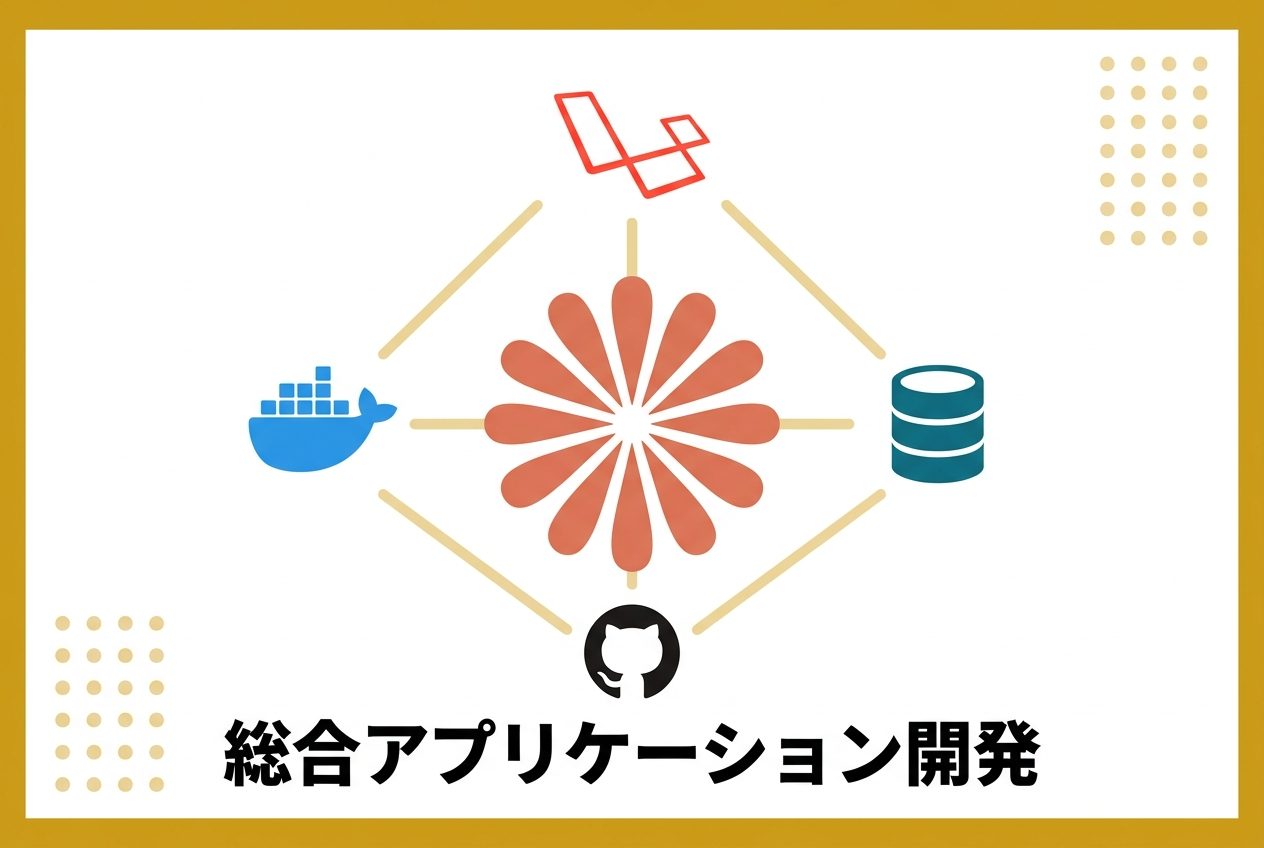
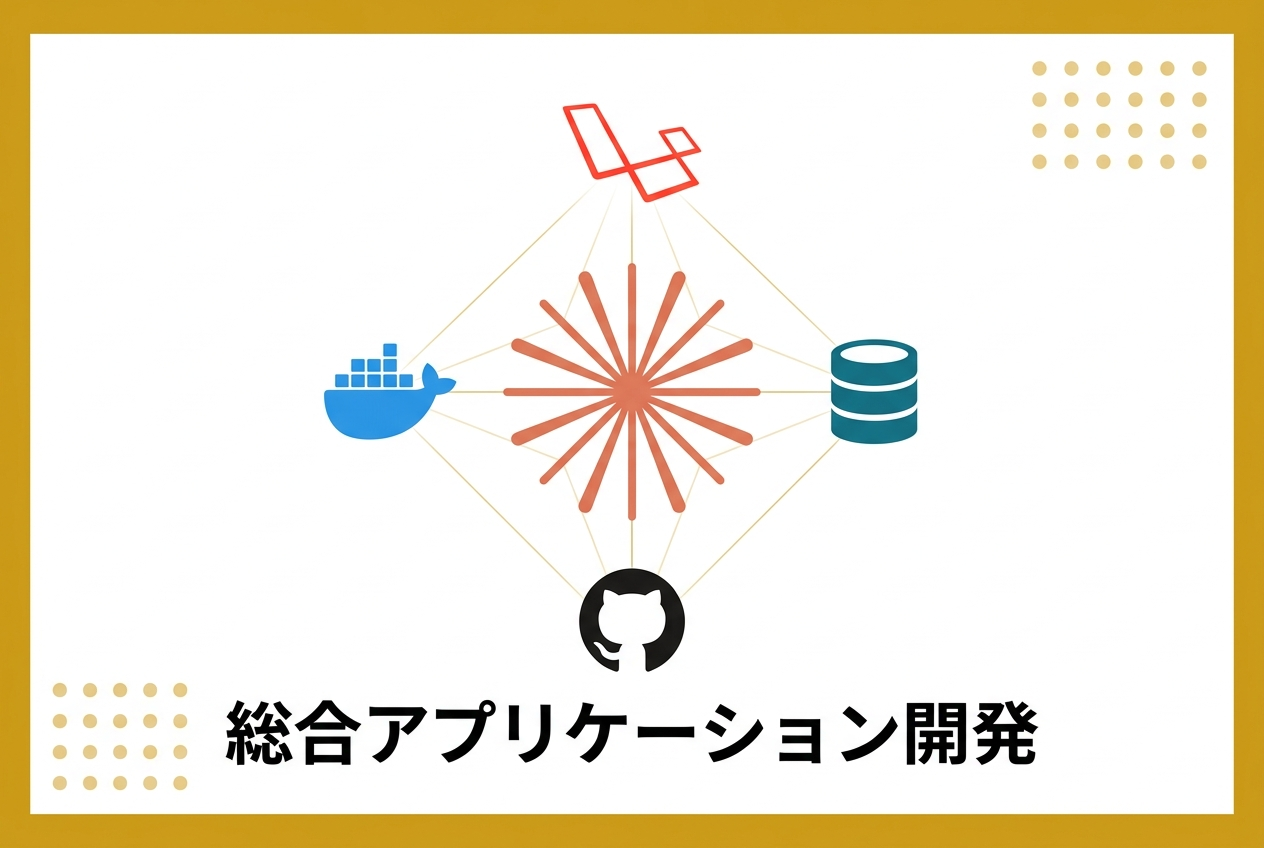
サムネイル: Claude ロゴの形状指定を具体化して T14・T16 を再生成
生成結果の放射状シンボルが太く均一な花弁になり「菊の花」に見えていた。
プロンプトに「幅は長さの5分の1程度」「12本の長さをそれぞれ変える」
「花びらのように太く丸い形にはしない」を追記し、公式ロゴの細く鋭い形に寄せた。

T16 は枠が二重（ゴールド枠の内側に白い縁と細い線）になっていたため生成し直した。

diff --git a/image/thumbnails/stage1/prompts/t14.md b/image/thumbnails/stage1/prompts/t14.md
@@ -25,8 +25,11 @@ LMS教材一覧のサムネイル画像を作成してください。
 
 【中央ビジュアル - Claude のロゴと開発サイクル】
 - 画像中央に Claude（Anthropic の AI アシスタント）の公式ロゴマークを大きく配置する
-  - 中心から放射状に外へ伸びる、花弁のような細長い形が12本ぐるりと並んだシンボル
-  - 各花弁は先端が丸く、根元に向かってすぼまる。長さは不揃いで、手描きのような有機的なリズムがある
+  - 中心から放射状に外へ伸びる、細長い形が12本ぐるりと並んだシンボル
+  - 各要素は**細く鋭い針のような形**にすること。幅は長さの5分の1程度に抑える
+  - 先端はわずかに丸みを帯びる程度にとどめ、根元に向かって細くすぼまる
+  - 12本の長さはそれぞれ変える。均等な放射状にせず、不揃いなリズムを持たせる
+  - **花びらのように太く丸い形にはしない**（菊やひまわりの花に見えてはいけない）
   - 色はコーラル（#D97757）の単色。グローや光の輪は付けない。ロゴそのものを大きく堂々と配置する
   - サイズ: 高さ約230px相当、画像の主役として最も大きく目立つように
 

diff --git a/image/thumbnails/stage1/prompts/t16.md b/image/thumbnails/stage1/prompts/t16.md
@@ -31,8 +31,11 @@ LMS教材一覧のサムネイル画像を作成してください。
 
 1. 中央（最大）: Claude のロゴ
    - Claude（Anthropic の AI アシスタント）の公式ロゴマーク
-   - 中心から放射状に外へ伸びる、花弁のような細長い形が12本ぐるりと並んだシンボル
-   - 各花弁は先端が丸く、根元に向かってすぼまる。長さは不揃いで、手描きのような有機的なリズムがある
+   - 中心から放射状に外へ伸びる、細長い形が12本ぐるりと並んだシンボル
+   - 各要素は**細く鋭い針のような形**にすること。幅は長さの5分の1程度に抑える
+   - 先端はわずかに丸みを帯びる程度にとどめ、根元に向かって細くすぼまる
+   - 12本の長さはそれぞれ変える。均等な放射状にせず、不揃いなリズムを持たせる
+   - **花びらのように太く丸い形にはしない**（菊やひまわりの花に見えてはいけない）
    - 色はコーラル（#D97757）の単色。グローや光の輪は付けない
    - サイズ: 高さ約130px相当、5つの中で最も大きく目立つように
 
